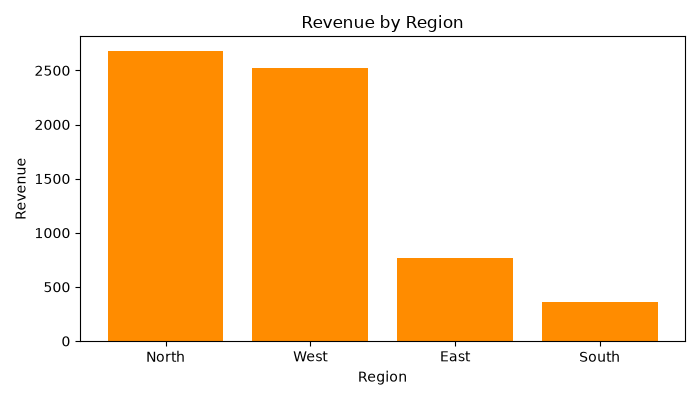
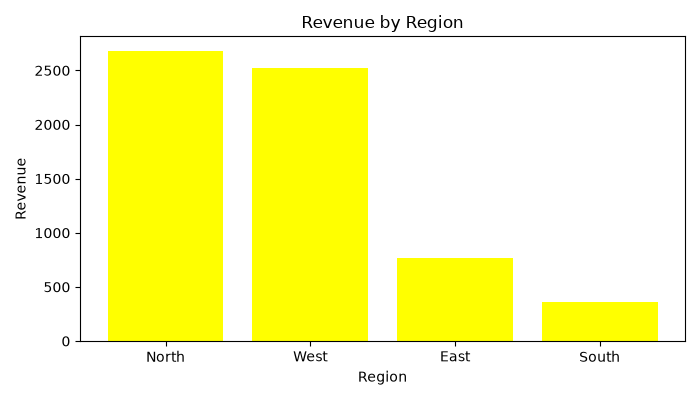
Change region revenue chart color to yellow

Changed region(s): [[0.15, 0.12, 0.33, 0.87], [0.36, 0.15, 0.54, 0.87], [0.57, 0.63, 0.96, 0.87]]

diff --git a/analysis.py b/analysis.py
@@ -64,7 +64,7 @@ plt.savefig(BASE_DIR / "revenue_by_category.png")
 plt.close()
 
 plt.figure(figsize=(7, 4))
-plt.bar(region_summary["region"], region_summary["total_revenue"], color="darkorange")
+plt.bar(region_summary["region"], region_summary["total_revenue"], color="yellow")
 plt.title("Revenue by Region")
 plt.xlabel("Region")
 plt.ylabel("Revenue")
